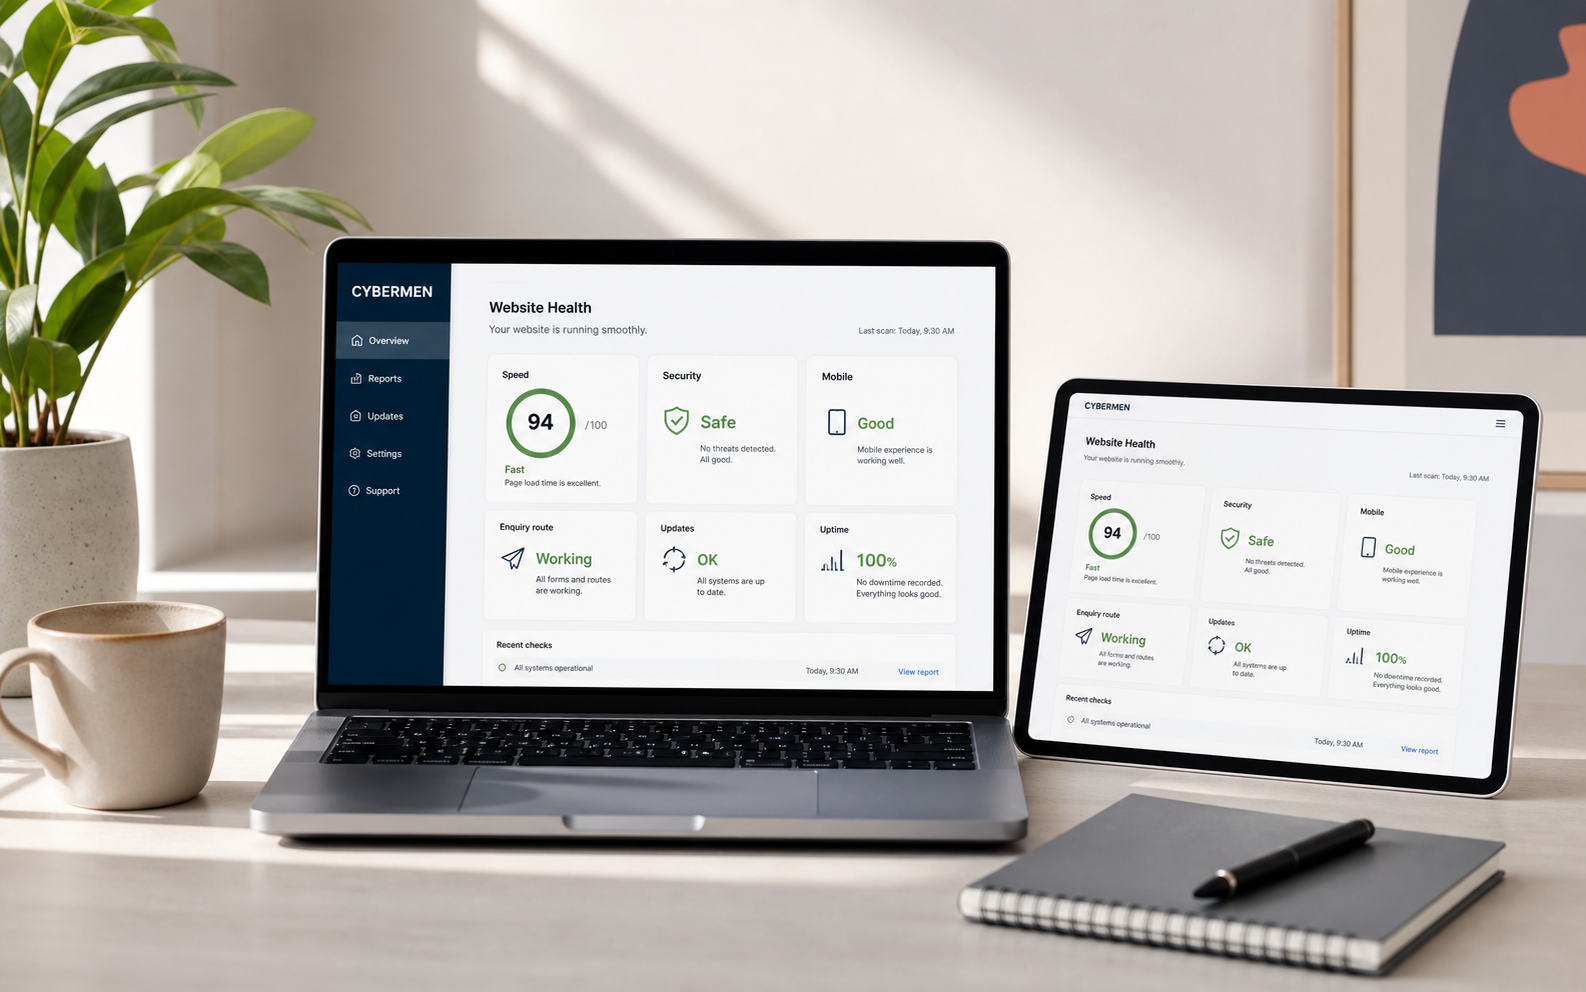
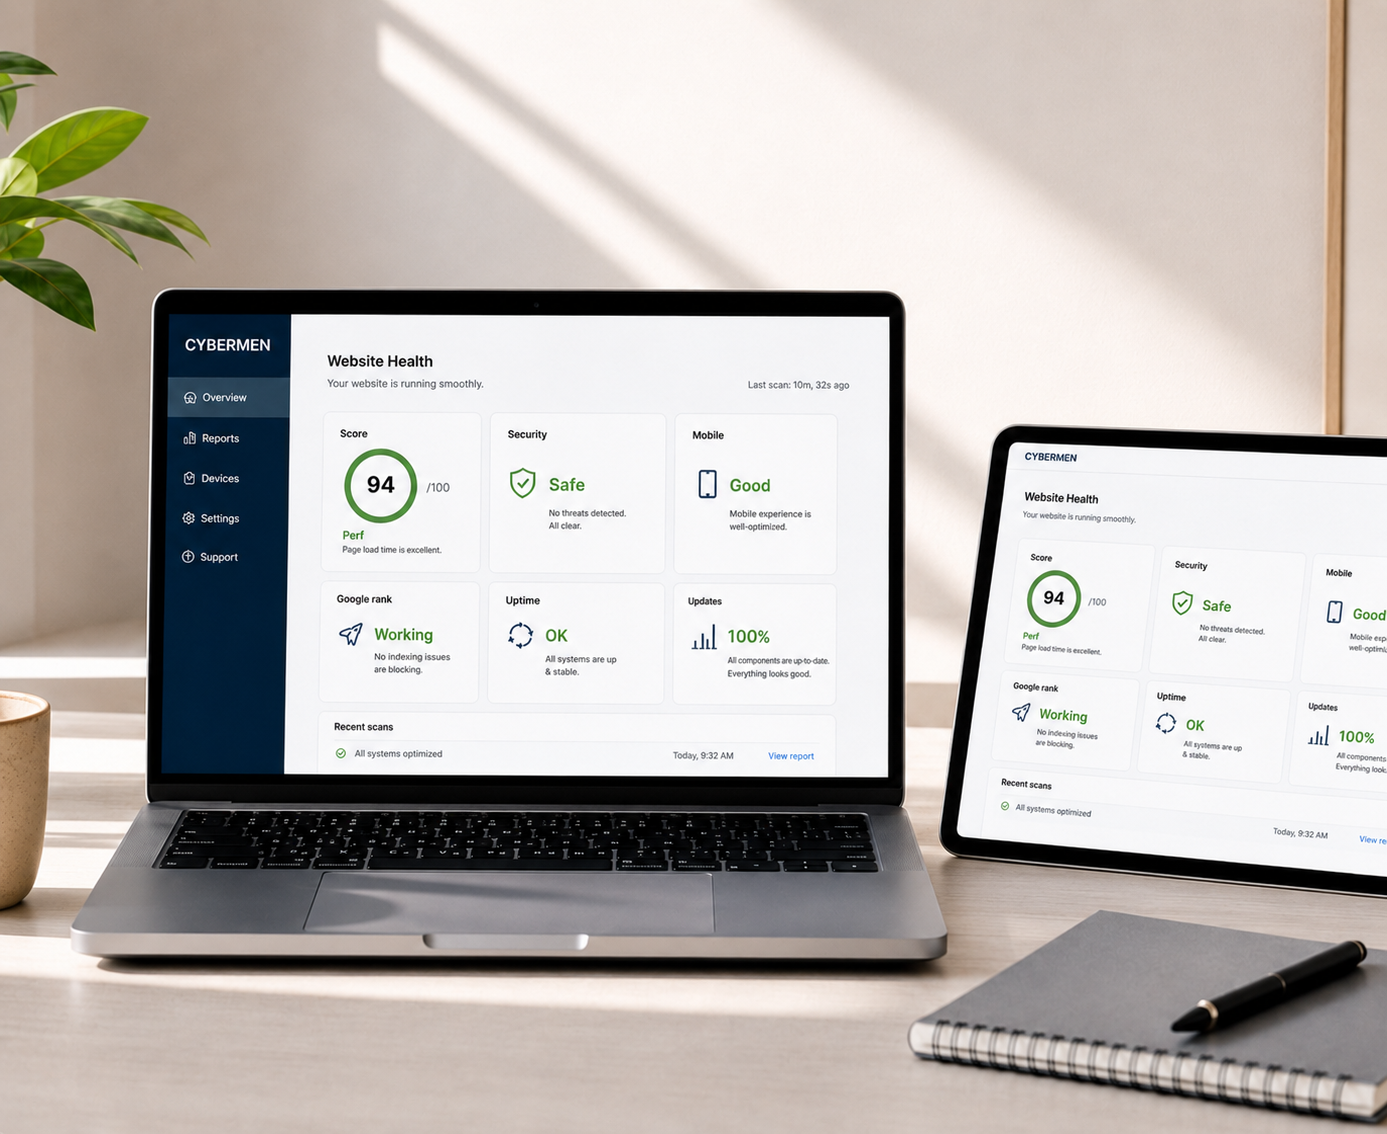
Refresh hero dashboard image

diff --git a/index.html b/index.html
@@ -24,7 +24,7 @@
       })();
     </script>
     <link rel="icon" href="assets/favicon.svg" type="image/svg+xml" />
-    <link rel="stylesheet" href="styles.css?v=20260521-ref-29" />
+    <link rel="stylesheet" href="styles.css?v=20260521-ref-30" />
   </head>
   <body>
     <div class="intro-preloader" aria-hidden="true">
@@ -83,7 +83,7 @@
 
         <figure class="hero-media reveal" data-tilt>
           <img
-            src="assets/hero-dashboard-sharp.png"
+            src="assets/hero-dashboard-sharp.png?v=20260521-sharp-2"
             alt="Laptop and tablet showing a Cybermen website health dashboard"
             width="1387"
             height="1134"
@@ -553,6 +553,6 @@
       </div>
     </footer>
 
-    <script src="app.js?v=20260521-ref-29"></script>
+    <script src="app.js?v=20260521-ref-30"></script>
   </body>
 </html>